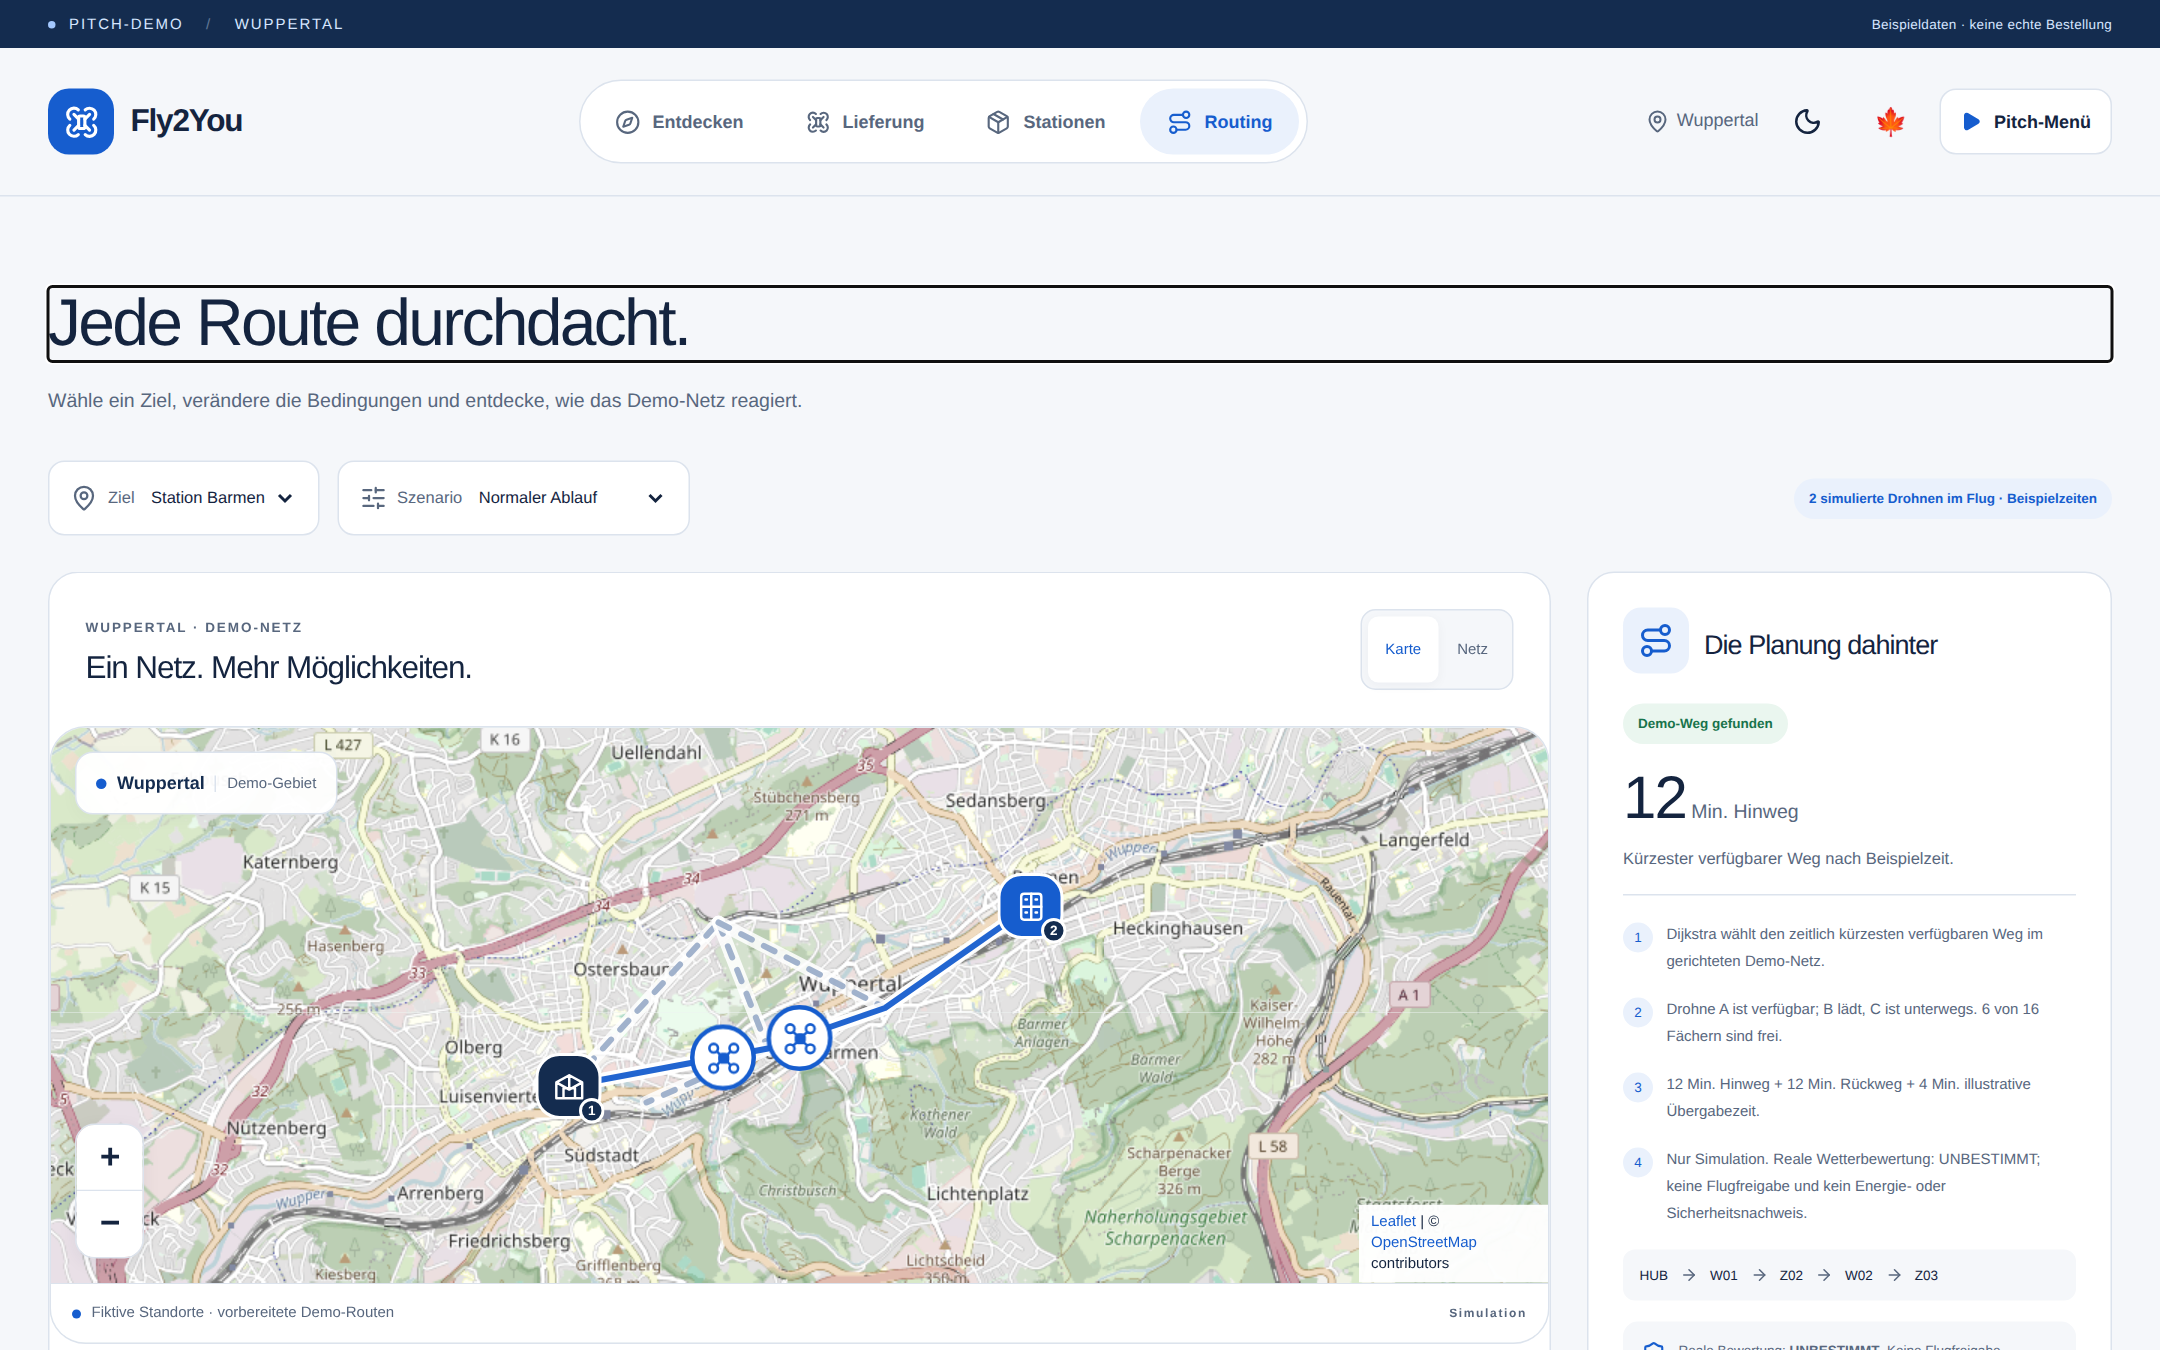
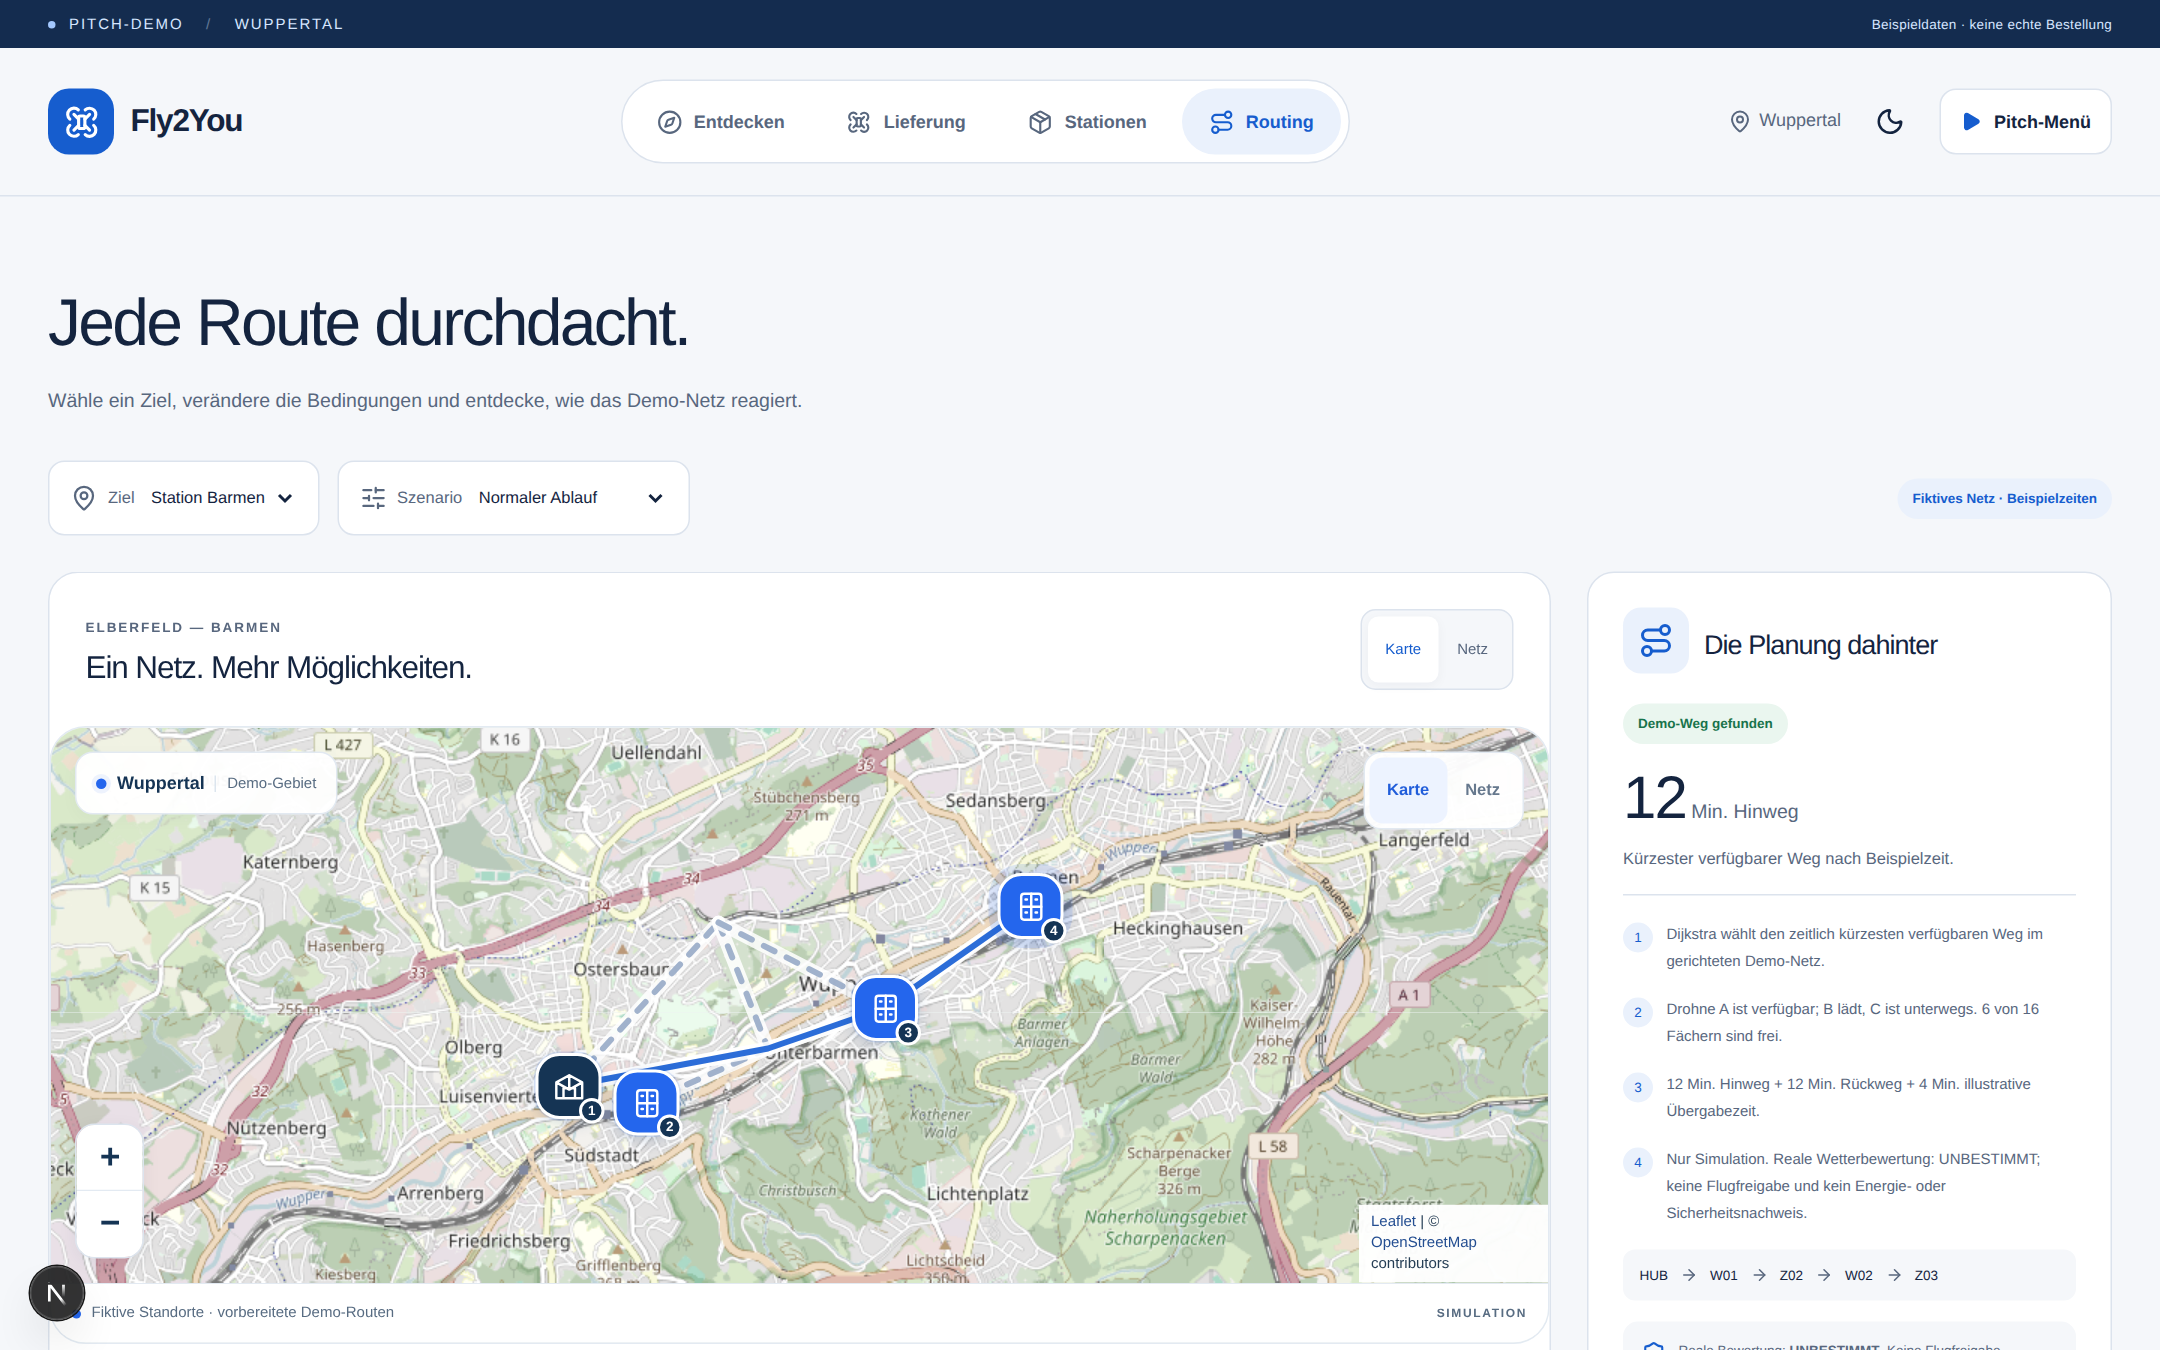
fix: QR-Flug landet exakt, Fokusrahmen im Demo-Titel entfernt
- QR-Flug nutzt jetzt die sichtbare QR-Fläche und den Ursprung oben links, damit er punktgenau landet statt zu springen
- Messung über Layout-Offsets statt getBoundingClientRect (keine 26-px-Verschiebung durch die einfliegende Folie, kein scale 0.9 des Eck-QR)
- ruhigere, längere Bewegung (780 ms, ease-in-out)
- Demo-Titel zeigen bei programmatischem Fokus keinen schwarzen Kasten mehr (h1/h2/tabindex=-1)
- Screenshots für Routing und Stationen neu aufgenommen

diff --git a/praesentation/app.js b/praesentation/app.js
@@ -96,12 +96,13 @@
     const toNode = qrSpots[toKey];
     if (!fromNode || !toNode) return;
 
-    if (qrFlight) { qrFlight.ghost.remove(); qrFlight.restore(); qrFlight = null; }
+    if (qrFlight) { qrFlight.cancel(); qrFlight = null; }
 
-    const from = layoutBox(fromNode);
-    const to = layoutBox(toNode);
-    if (!from.width || !to.width) return;
-    if (Math.abs(from.width - to.width) < 2 && Math.abs(from.left - to.left) < 2 && Math.abs(from.top - to.top) < 2) return;
+    // Immer die sichtbare QR-Fläche nehmen, nicht die Karte drumherum.
+    const from = qrContentBox(fromNode);
+    const to = qrContentBox(toNode);
+    if (!from || !to || !from.width || !to.width) return;
+    if (Math.abs(from.width - to.width) < 1 && Math.abs(from.left - to.left) < 1 && Math.abs(from.top - to.top) < 1) return;
 
     const ghost = document.createElement('img');
     ghost.className = 'qr-flight';
@@ -111,7 +112,6 @@
     ghost.style.height = `${from.height}px`;
     ghost.style.left = `${from.left}px`;
     ghost.style.top = `${from.top}px`;
-    ghost.style.padding = toKey === 'final' ? '0px' : '6px';
     document.body.append(ghost);
 
     const dx = to.left - from.left;
@@ -124,39 +124,56 @@
     const restore = () => hidden.forEach((node) => { node.style.visibility = ''; });
 
     const animation = ghost.animate([
-      { transform: 'translate3d(0, 0, 0) scale(1)', opacity: 1 },
-      { transform: `translate3d(${dx}px, ${dy}px, 0) scale(${scale})`, opacity: 1 }
-    ], { duration: 620, easing: 'cubic-bezier(0.22, 1, 0.36, 1)', fill: 'forwards' });
+      { transform: 'translate3d(0, 0, 0) scale(1)' },
+      { transform: `translate3d(${dx}px, ${dy}px, 0) scale(${scale})` }
+    ], { duration: 780, easing: 'cubic-bezier(0.45, 0, 0.15, 1)', fill: 'forwards' });
 
-    const flight = { ghost, restore };
     const finish = () => {
+      animation.cancel();
       ghost.remove();
       restore();
-      if (qrFlight === flight) qrFlight = null;
+      if (qrFlight && qrFlight.animation === animation) qrFlight = null;
     };
+
     animation.onfinish = finish;
-    animation.oncancel = finish;
-    qrFlight = flight;
+    qrFlight = { ghost, animation, cancel: finish };
   }
 
-  // Lage ohne Transform der Folie – sonst fliegt der QR auf die halb
-  // eingeblendete Position der nächsten Folie.
-  function layoutBox(node) {
-    const fixed = getComputedStyle(node.parentElement ?? node).position === 'fixed';
-    if (fixed) {
-      const rect = node.getBoundingClientRect();
-      return { left: rect.left, top: rect.top, width: rect.width, height: rect.height };
+  // Äußere Lage ohne Transform der Folie – getBoundingClientRect würde die
+  // halb eingeblendete Folie (26 px Versatz) und den Eck-QR (scale 0.9) liefern.
+  function qrContentBox(node) {
+    const style = getComputedStyle(node);
+    const padLeft = parseFloat(style.paddingLeft) || 0;
+    const padRight = parseFloat(style.paddingRight) || 0;
+    const padTop = parseFloat(style.paddingTop) || 0;
+    const padBottom = parseFloat(style.paddingBottom) || 0;
+    const width = node.offsetWidth - padLeft - padRight;
+    const height = node.offsetHeight - padTop - padBottom;
+    if (!width || !height) return null;
+
+    const host = node.closest('.corner-qr');
+    if (host) {
+      const hostStyle = getComputedStyle(host);
+      const right = parseFloat(hostStyle.right) || 0;
+      const top = parseFloat(hostStyle.top) || 0;
+      return {
+        left: window.innerWidth - right - node.offsetWidth + padLeft,
+        top: top + padTop,
+        width,
+        height
+      };
     }
-    let x = 0;
-    let y = 0;
+
+    let left = 0;
+    let top = 0;
     let el = node;
     while (el && el !== document.body) {
-      x += el.offsetLeft;
-      y += el.offsetTop;
+      left += el.offsetLeft;
+      top += el.offsetTop;
       if (!el.offsetParent) break;
       el = el.offsetParent;
     }
-    return { left: x, top: y, width: node.offsetWidth, height: node.offsetHeight };
+    return { left: left + padLeft, top: top + padTop, width, height };
   }
 
   const next = () => show(current + 1);

diff --git a/src/app/globals.css b/src/app/globals.css
@@ -1,3 +1,3 @@
 :root{--bg:#f5f7fa;--surface:#fff;--ink:#14243f;--muted:#58677e;--line:#dce3ed;--blue:#165dce;--blue-strong:#124fae;--soft:#eaf1fc;--green:#18734b;--green-bg:#eaf6ef;--amber:#855411;--amber-bg:#fff4df;--red:#b33c37;--shadow:0 12px 38px #1b35500a;--radius:20px;--serif:Georgia,'Times New Roman',serif}
 :root[data-theme=dark]{--bg:#101a2b;--surface:#19263b;--ink:#edf3ff;--muted:#acbad0;--line:#3a4b63;--blue:#8ab6ff;--blue-strong:#b0ceff;--soft:#203654;--green:#86dcb0;--green-bg:#183b30;--amber:#f1c87c;--amber-bg:#413525;--red:#ffb0a9;--shadow:0 12px 38px #0002;color-scheme:dark}
-*{box-sizing:border-box}html{scroll-behavior:smooth}body{margin:0;background:var(--bg);color:var(--ink);font-family:Arial,Helvetica,sans-serif;-webkit-font-smoothing:antialiased}button,input,select{font:inherit}button,a,input,select{-webkit-tap-highlight-color:transparent}button{cursor:pointer}button:disabled{cursor:not-allowed;opacity:.55}button{color:inherit}a{color:var(--blue)}button:focus-visible,a:focus-visible,input:focus-visible,select:focus-visible,summary:focus-visible{outline:3px solid var(--blue);outline-offset:4px}button,input,select{min-height:44px}button{touch-action:manipulation}svg{flex-shrink:0}h1,h2,h3,p{margin-top:0}h1,h2,h3{letter-spacing:-.035em}button{border:0}::selection{background:#bdd4ff;color:#14243f}dialog{border:1px solid var(--line);background:var(--surface);color:var(--ink);border-radius:24px;padding:0;box-shadow:0 24px 100px #12274933;width:min(540px,calc(100% - 28px));max-height:90dvh;overflow:auto}dialog::backdrop{background:#0b1c3d66;backdrop-filter:blur(4px)}.leaflet-container{font-family:Arial,Helvetica,sans-serif}.leaflet-control-attribution a{color:#174d93}.sr-only{position:absolute;width:1px;height:1px;overflow:hidden;clip:rect(0,0,0,0);white-space:nowrap}.skip{position:fixed;top:-80px;left:20px;z-index:10000;background:var(--surface);padding:14px;border-radius:10px}.skip:focus{top:10px}button::-moz-focus-inner{border:0}@media(prefers-reduced-motion:reduce){html{scroll-behavior:auto}*,*:before,*:after{animation:none!important;transition:none!important;scroll-behavior:auto!important}}
+*{box-sizing:border-box}html{scroll-behavior:smooth}body{margin:0;background:var(--bg);color:var(--ink);font-family:Arial,Helvetica,sans-serif;-webkit-font-smoothing:antialiased}button,input,select{font:inherit}button,a,input,select{-webkit-tap-highlight-color:transparent}button{cursor:pointer}button:disabled{cursor:not-allowed;opacity:.55}button{color:inherit}a{color:var(--blue)}button:focus-visible,a:focus-visible,input:focus-visible,select:focus-visible,summary:focus-visible{outline:3px solid var(--blue);outline-offset:4px}h1:focus,h2:focus,[tabindex="-1"]:focus{outline:none}button,input,select{min-height:44px}button{touch-action:manipulation}svg{flex-shrink:0}h1,h2,h3,p{margin-top:0}h1,h2,h3{letter-spacing:-.035em}button{border:0}::selection{background:#bdd4ff;color:#14243f}dialog{border:1px solid var(--line);background:var(--surface);color:var(--ink);border-radius:24px;padding:0;box-shadow:0 24px 100px #12274933;width:min(540px,calc(100% - 28px));max-height:90dvh;overflow:auto}dialog::backdrop{background:#0b1c3d66;backdrop-filter:blur(4px)}.leaflet-container{font-family:Arial,Helvetica,sans-serif}.leaflet-control-attribution a{color:#174d93}.sr-only{position:absolute;width:1px;height:1px;overflow:hidden;clip:rect(0,0,0,0);white-space:nowrap}.skip{position:fixed;top:-80px;left:20px;z-index:10000;background:var(--surface);padding:14px;border-radius:10px}.skip:focus{top:10px}button::-moz-focus-inner{border:0}@media(prefers-reduced-motion:reduce){html{scroll-behavior:auto}*,*:before,*:after{animation:none!important;transition:none!important;scroll-behavior:auto!important}}

diff --git a/praesentation/styles.css b/praesentation/styles.css
@@ -415,9 +415,10 @@ body.qr-off .corner-qr {
   display: block;
   box-sizing: border-box;
   object-fit: contain;
-  border-radius: 14px;
+  transform-origin: 0 0;
+  border-radius: 10px;
   background: #fff;
-  box-shadow: 0 26px 64px rgba(8, 20, 40, 0.26);
+  box-shadow: 0 22px 54px rgba(8, 20, 40, 0.22);
   pointer-events: none;
   will-change: transform;
 }
